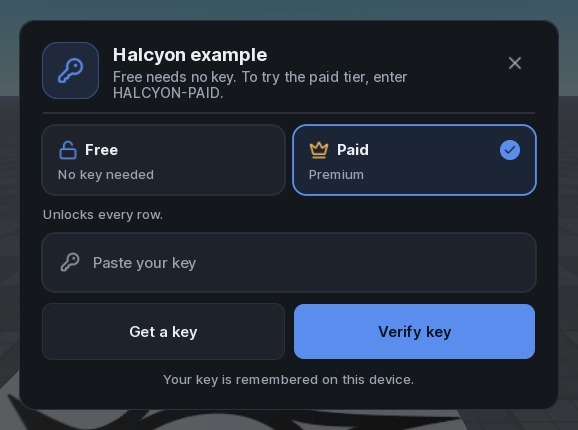
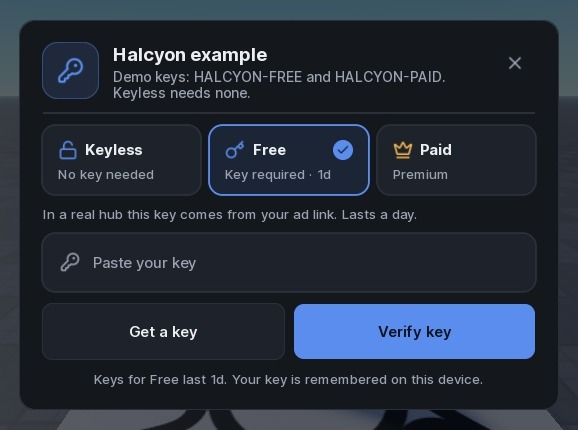
Make Free need a key and add Keyless for no-key access

diff --git a/docs/key-system.md b/docs/key-system.md
@@ -39,7 +39,7 @@ end
 | `AdService` | Tie the tier to an ad step; see below |
 | `Link`, `GetLink`, `LinkLabel` | What the "Get a key" button copies, as text or as a function returning text, and the button's label |
 | `Duration` | Seconds a saved key lasts before the prompt returns |
-| `NoKey` | `true` lets the player continue on this tier with no key |
+| `NoKey` | `true` lets the player continue on this tier with no key. Such a tier is named `Keyless` unless you give it a `Name`; list it first, as the lowest tier |
 | `Icon`, `Tag` | The icon and the line shown on the tier's card in the prompt *(defaults depend on the tier: "No key needed", "Via Linkvertise", "Premium", "Key required")* |
 | `Paid` | Marks the tier as paid. By default the tier named `"Paid"` is paid, and so is every tier above a paid one |
 
@@ -117,9 +117,19 @@ AdService = {
 
 Halcyon cannot see whether an ad was watched. `Confirm` (or `Remote`) is the only proof it has, so that function must ask something you trust: your server, or the ad service's own API. Check that service's current documentation for how; Halcyon does not bundle any service's endpoints.
 
-## Keyless
+## Free and Keyless
 
-A window created without a `KeySystem` (and without `Tiers`) is **Keyless**: `Window:GetTier()` returns `"Keyless"` and the profile card shows it. Keyless ranks below every tier, so ordinary rows are open and rows marked `Tier` or `PaidOnly` stay locked.
+**Free** is a tier that still needs a key: the one players earn through your ad link, usually tied to an `AdService`. **Keyless** is the tier that needs none:
+
+```lua
+Tiers = {
+	{ NoKey = true }, -- named "Keyless"
+	{ Name = "Free", Duration = 86400, AdService = { Name = "Linkvertise", Link = "https://…", Confirm = confirmWithMyServer } },
+	{ Name = "Paid", Validate = checkPaidKey },
+}
+```
+
+A window created without a `KeySystem` (and without `Tiers`) is also **Keyless**: `Window:GetTier()` returns `"Keyless"` and the profile card shows it. Keyless ranks below every tier, so ordinary rows are open and rows marked `Tier` or `PaidOnly` stay locked.
 
 ## Locking features
 

diff --git a/README.md b/README.md
@@ -12,7 +12,7 @@ Run the example in your executor. It opens a hub that uses every control:
 loadstring(game:HttpGet("https://raw.githubusercontent.com/ScriptsForDays/Halcyon/main/example/Example.luau"))()
 ```
 
-The example asks for a key first. **Free** needs none; to see the paid tier, enter `HALCYON-PAID`.
+The example opens on its key prompt. **Keyless** needs no key; the demo keys are `HALCYON-FREE` and `HALCYON-PAID`.
 
 ## Use it
 
@@ -128,7 +128,7 @@ Tab:Section({ Title = "Raids", PaidOnly = true, LockHint = "Buy a key in our Dis
 
 A key with a `Duration` shows a countdown on the profile card; `ShowExpiry = false` in the `KeySystem` table hides it.
 
-Free keys can be tied to an ad service, rows can be locked to a tier, and the lock wording is yours to set. A window with no key system reports its tier as `Keyless`. See [docs/key-system.md](docs/key-system.md).
+**Free** is a key the player earns, usually through your ad link, and can be tied to an ad service. **Keyless** needs no key: add a tier with `NoKey = true`, or leave the key system out and the window is Keyless. Rows can be locked to a tier, and the lock wording is yours to set. See [docs/key-system.md](docs/key-system.md).
 
 > **A key prompt in a script is not security.** It runs on the player's machine, so anyone who reads the script can skip it. Halcyon's prompt is a gate for honest users. To protect a script, have your server hand it out only after the key is checked there.
 
